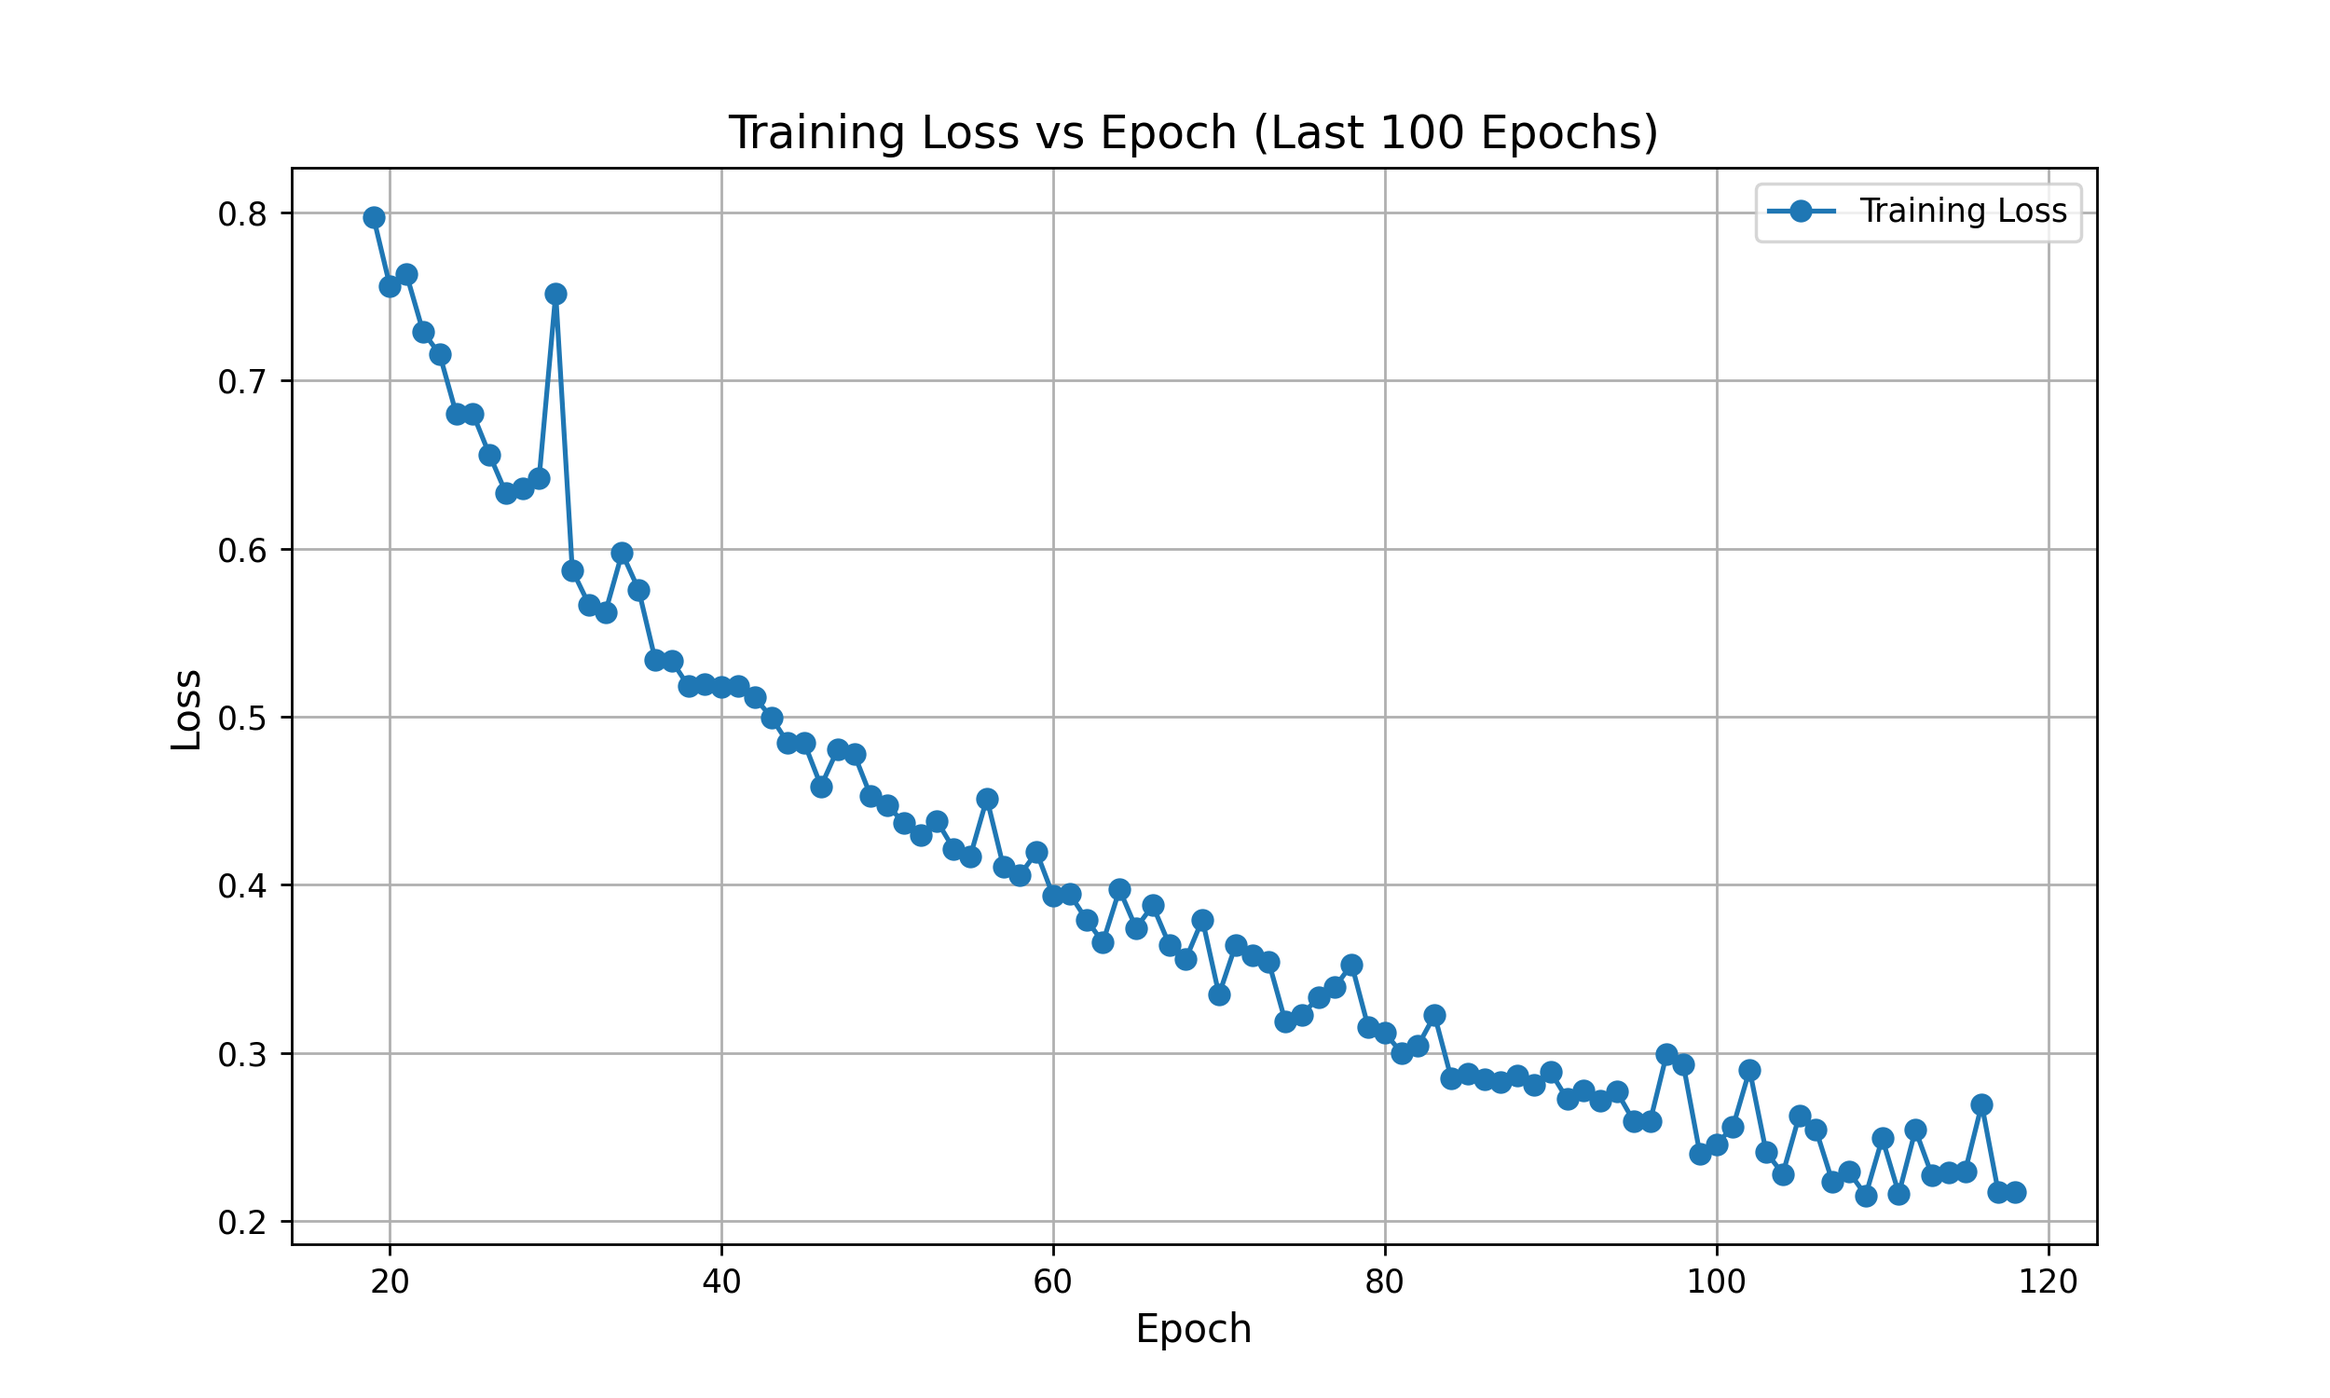
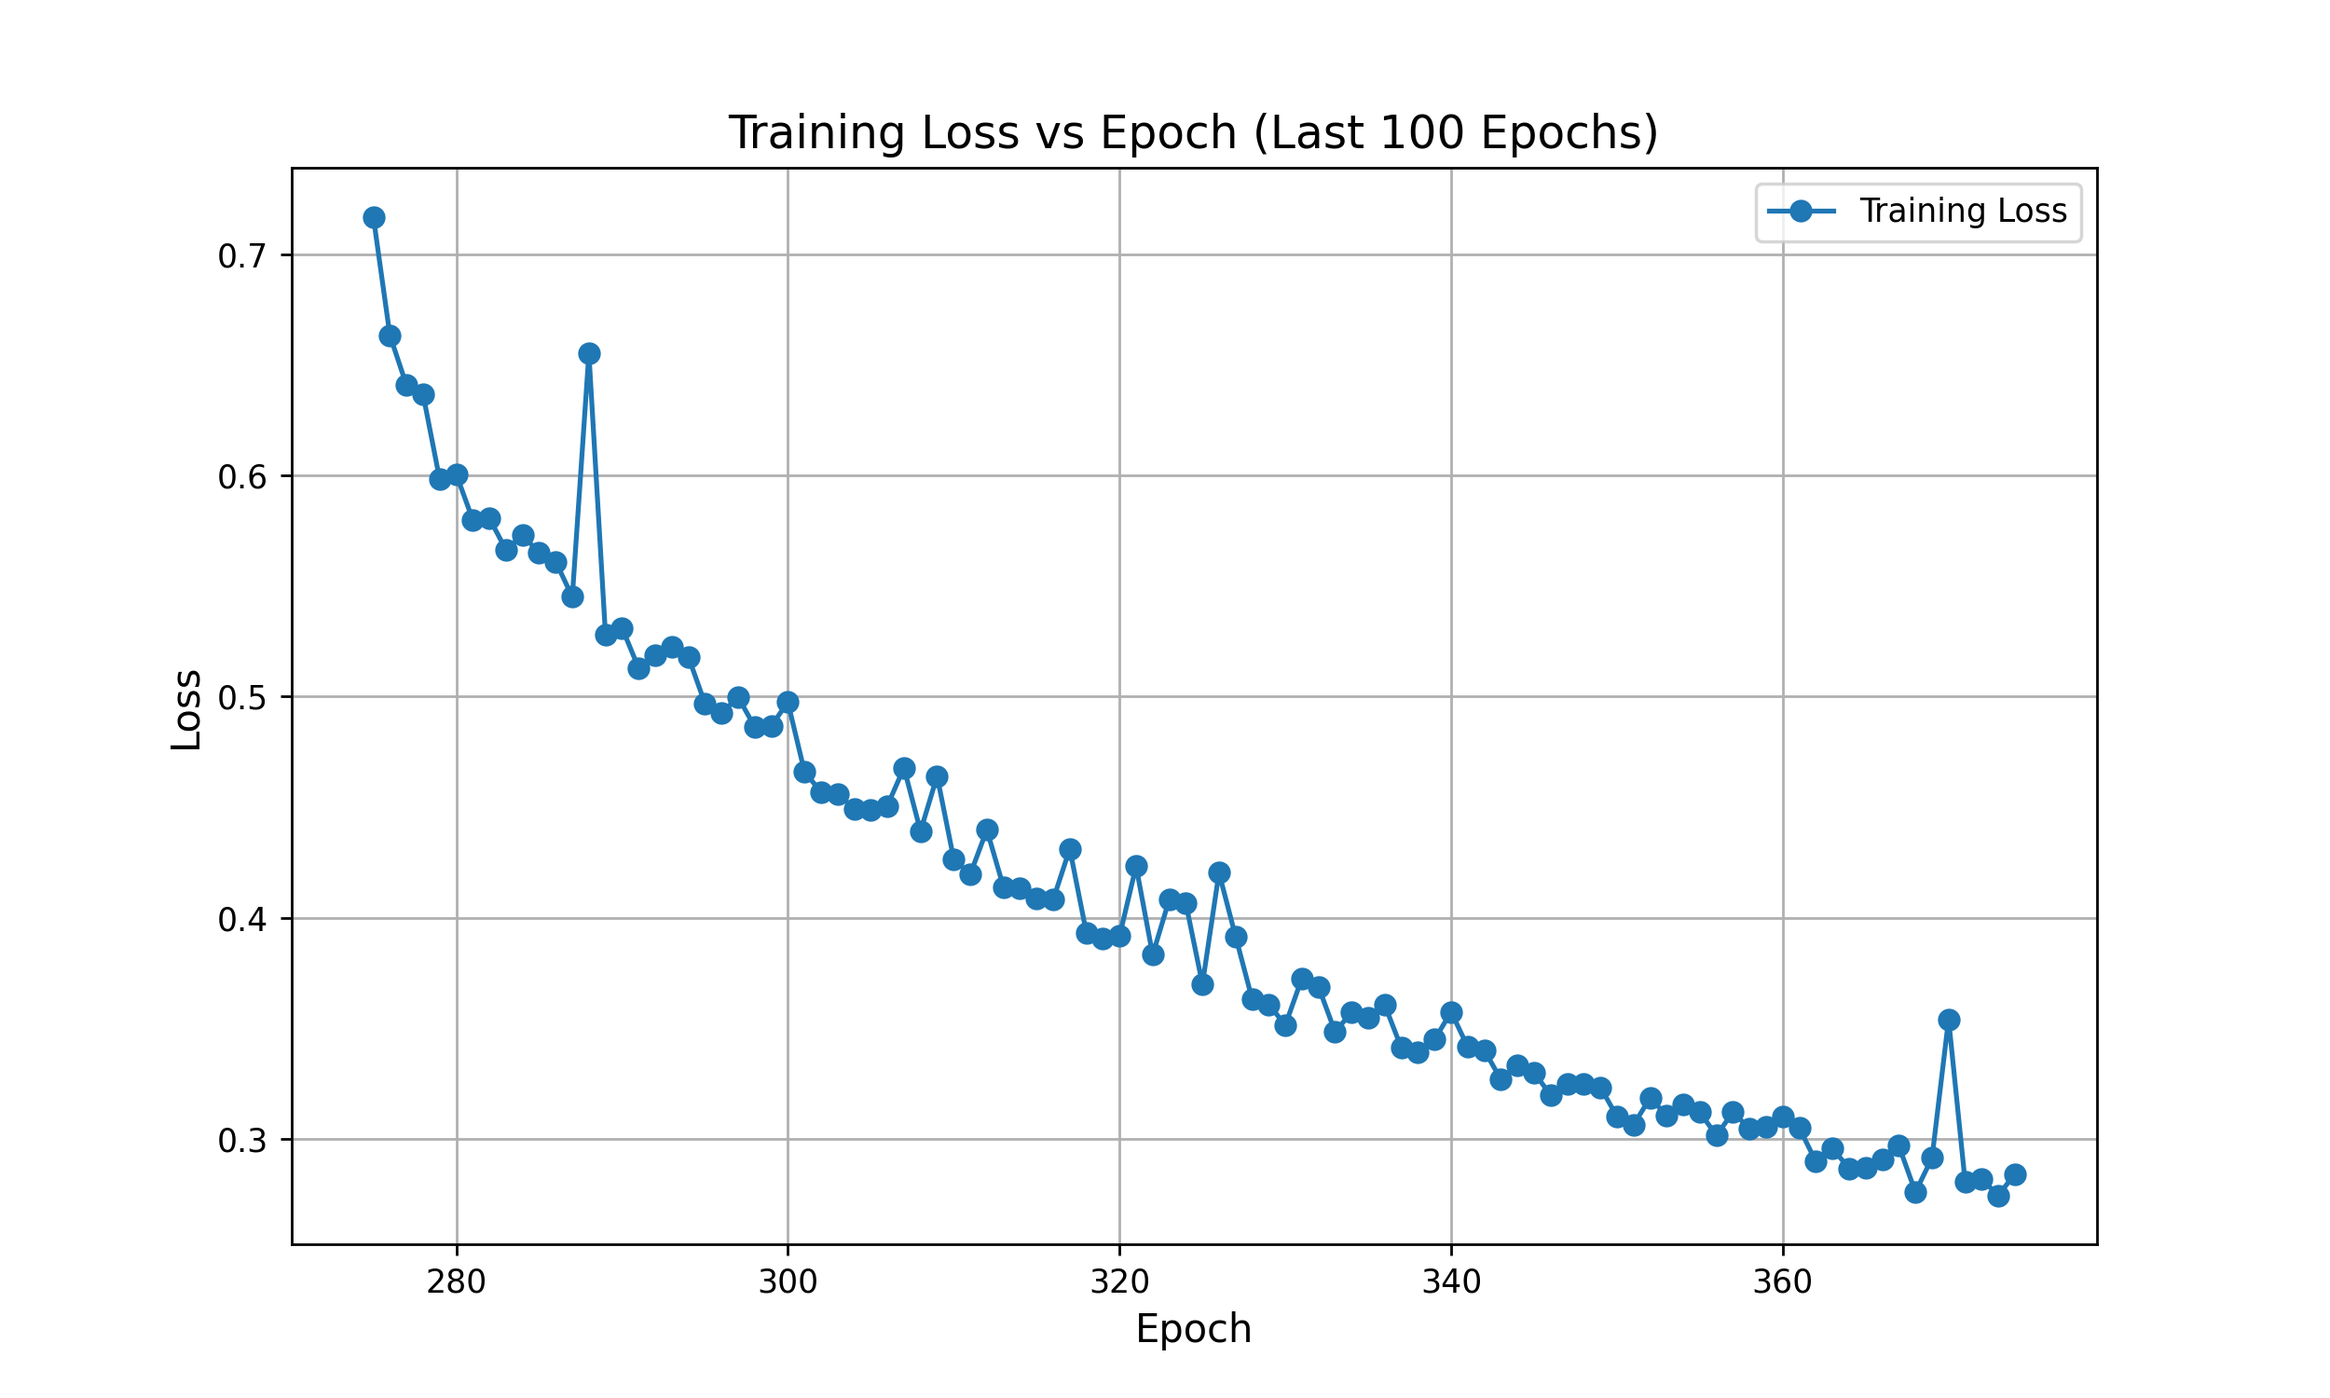
tried making neural network with sigmoid activation function

diff --git a/Machine Learning/neural_network_sigmoid.py b/Machine Learning/neural_network_sigmoid.py
@@ -1,0 +1,392 @@
+import torch
+import torch.nn as nn
+import torch.nn.functional as F
+import torch.optim as optim
+from torchvision import datasets, transforms
+import matplotlib.pyplot as plt
+import numpy as np
+import pandas as pd
+from torch.utils.data import DataLoader, Dataset
+from sklearn.model_selection import train_test_split
+from sklearn.preprocessing import StandardScaler
+import time
+import os
+
+# Flag to decide whether to save the metrics to CSV or not
+save_metrics = True  # Change this to False if you don’t want to save for this run
+
+# Path to the CSV file
+csv_file_path = "Machine Learning/training_metrics.csv"
+data_file_path="Data/full_data_set_sem1.csv"
+
+def theta_to_r(theta, distance):
+    
+    r=distance*np.tan(theta)
+    return r
+
+class EmittanceDataset(Dataset):
+    # Constructor method to initialize the dataset with features and targets
+    def __init__(self, features, targets):
+        # The features (input data) will be stored in self.features
+        # The targets (output labels) will be stored in self.targets
+        self.features = features
+        self.targets = targets
+
+    # This method defines the length of the dataset, i.e., how many samples are there
+    def __len__(self):
+        # Return the number of samples in the dataset (based on the features array)
+        return len(self.features)
+
+    # This method retrieves a sample from the dataset based on the index (idx)
+    def __getitem__(self, idx):
+        # Return the feature (input data) and the corresponding target (label)
+        # at the given index `idx`
+        return self.features[idx], self.targets[idx]
+
+# Load into a DataFrame
+df = pd.read_csv(data_file_path)
+df['R'] = df['Mean Theta'].apply(lambda theta: theta_to_r(theta, 11))
+# Separate features and target
+X = df[["UV/X-ray", "R", "Critical Energy"]].values # Features
+y = df["Emittance"].values # Target
+
+# Convert to PyTorch tensors
+X = torch.tensor(X, dtype=torch.float32)
+y = torch.tensor(y, dtype=torch.float32).view(-1, 1)  # Reshape to match model output
+
+
+
+# Create dataset and dataloader
+dataset = EmittanceDataset(X, y)
+dataloader = DataLoader(dataset, batch_size=2, shuffle=True)  # Batch size = 2
+
+# Split data into training and test sets (80% train, 20% test)
+X_train, X_test, y_train, y_test = train_test_split(X, y, test_size=0.5, random_state=42)
+
+# Initialize a scaler
+scaler = StandardScaler()
+# Fit the scaler on the training data and transform it
+X_train_scaled = scaler.fit_transform(X_train)
+# Use the same scaler (don't refit) to scale the test data
+X_test_scaled = scaler.transform(X_test)
+
+# Convert the scaled data into tensors
+X_train_tensor = torch.tensor(X_train_scaled, dtype=torch.float32)
+X_test_tensor = torch.tensor(X_test_scaled, dtype=torch.float32)
+
+#check if there is any overlap between training and test sets
+# Convert tensors to numpy for easy comparison
+train_features_np = X_train_tensor.numpy()
+test_features_np = X_test_tensor.numpy()
+
+# Check if there is any overlap between training and test sets
+overlap = np.isin(test_features_np, train_features_np).all(axis=1).sum()
+print(f"Number of overlapping samples: {overlap}")
+
+batch_no=2
+
+# Create training dataset and dataloader
+train_dataset = EmittanceDataset(X_train_tensor, y_train)
+train_dataloader = DataLoader(train_dataset, batch_size=batch_no, shuffle=True)
+
+# Create test dataset and dataloader
+test_dataset = EmittanceDataset(X_test_tensor, y_test)
+test_dataloader = DataLoader(test_dataset, batch_size=batch_no, shuffle=False)
+
+for batch_features, batch_targets in train_dataloader:
+    print("Features:", batch_features)
+    print("Targets:", batch_targets)
+    break  # Check one batch
+
+# Check if a GPU (CUDA) is available, otherwise default to CPU
+device = torch.device("cuda" if torch.cuda.is_available() else "cpu")
+
+# Print the device being used
+print(f"Using {device} device")
+activation_function="Sigmoid"
+no_hidden_layers=3
+class NeuralNetwork(nn.Module):  # Define custom neural network
+    def __init__(self):
+        super().__init__()
+        self.linear_sigmoid_stack = nn.Sequential(
+            nn.Linear(3, 10),
+            nn.Sigmoid(),  # Using Sigmoid activation
+            nn.Linear(10, 10),
+            nn.Sigmoid(),
+            nn.Linear(10, 10),
+            nn.Sigmoid(),
+            nn.Linear(10, 1),
+        )
+
+    def forward(self, x):  # Define the forward pass
+        logits = self.linear_sigmoid_stack(x)
+        return logits
+
+model = NeuralNetwork().to(device)
+
+print(model)   
+learning_rate=0.001
+# Step 1: Define a loss function and optimizer
+loss_fn = nn.MSELoss()  # Mean Squared Error Loss for regression
+optimizer = optim.Adam(model.parameters(), lr=learning_rate)  # Adam optimizer with learning rate = 0.001
+
+# Step 2: Training Loop
+epoch_times = [] 
+epochs = 375  # Number of epochs to train
+patience = 10  # number of epochs with no improvement before stopping
+epochs_since_improvement = 0  # Initialize counter for early stopping
+# Initialize best_loss with a very large number
+best_loss = float('inf')  # Start with infinity, so any loss will be smaller
+
+epoch_array=np.empty(0)
+loss_array=np.empty(0)
+
+total_start_time = time.time()
+for epoch in range(epochs):
+    start_time = time.time()
+    model.train()  # Set the model to training mode
+    running_loss = 0.0
+    
+    
+    # Loop over batches of data
+    for batch_features, batch_targets in train_dataloader:
+        # Move data to the device (GPU or CPU)
+        batch_features, batch_targets = batch_features.to(device), batch_targets.to(device)
+        
+        # Zero the gradients from the previous step
+        optimizer.zero_grad() #check!!!!!!!!!!!!!!!!!!!!!!!!!!!!!!!!!!!
+        
+        # Step 3: Forward pass (make predictions)
+        predictions = model(batch_features)
+        
+        # Step 4: Calculate the loss
+        loss = loss_fn(predictions, batch_targets)
+        
+        # Step 5: Backpropagation (compute gradients)
+        loss.backward() #check!!!!!!!!!!!!!!!!!!!!!!!!!!!!!!!!!!!!!!
+        
+        # Step 6: Update the weights using the optimizer
+        optimizer.step()
+        
+        # Update running loss
+        running_loss += loss.item()
+
+        end_time = time.time()
+        epoch_duration = end_time - start_time
+        epoch_times.append(epoch_duration)
+
+            # Check if the loss has improved
+    if running_loss < best_loss:
+        best_loss = running_loss
+        epochs_since_improvement = 0
+    else:
+        epochs_since_improvement += 1
+
+    if epochs_since_improvement >= patience:
+        print("Early stopping triggered!")
+        break
+    
+    # Print loss for every epoch
+    print(f"Epoch [{epoch+1}/{epochs}], Loss: {running_loss/len(dataloader)}")
+    epoch_array=np.append(epoch_array,epoch)
+    loss_array=np.append(loss_array,running_loss/len(dataloader))
+
+# End overall training timer
+total_end_time = time.time()
+total_training_time = total_end_time - total_start_time
+# Print average and total training time
+avg_epoch_time = np.mean(epoch_times)
+print(f"Average time per epoch: {avg_epoch_time:.2f} sec")
+print(f"Total training time: {total_training_time:.2f} sec")
+
+# After training is done, plot the results
+plt.figure(figsize=(10, 6))
+plt.plot(epoch_array, loss_array, label='Training Loss', color='tab:blue', marker='o')
+plt.xlabel('Epoch', fontsize=12)
+plt.ylabel('Loss', fontsize=12)
+plt.title('Training Loss vs Epoch', fontsize=14)
+plt.grid(True)
+plt.legend()
+#plt.savefig(f'Machine Learning/Plots/Epochs_vs_loss_{epochs}_epochs.png', dpi=250)
+
+#focus on the last epochs
+no_epochs_focus=100
+
+if len(epoch_array) > no_epochs_focus:
+    epoch_array_last = epoch_array[-no_epochs_focus:]  # Slice the last no_epochs_focus epochs
+    loss_array_last = loss_array[-no_epochs_focus:]    # Slice the corresponding last no_epochs_focus loss values
+else:
+    # If there are fewer than 20 epochs, use all epochs
+    epoch_array_last = epoch_array
+    loss_array_last= loss_array
+
+# Plot the last 2no_epochs_focus epochs
+plt.figure(figsize=(10, 6))
+plt.plot(epoch_array_last, loss_array_last, label='Training Loss', color='tab:blue', marker='o')
+plt.xlabel('Epoch', fontsize=12)
+plt.ylabel('Loss', fontsize=12)
+plt.title(f'Training Loss vs Epoch (Last {no_epochs_focus} Epochs)', fontsize=14)
+plt.grid(True)
+plt.legend()
+plt.savefig(f'Machine Learning/Plots/Last_{no_epochs_focus}_Epochs_vs_loss_{epochs}_epochs.png', dpi=250)
+#plt.show()
+
+
+
+#TEST!!!!!!!!!!!!!!!!!!!!!!!!!!!!!!!!!!!!!!
+# Step 3: Evaluate the model
+# Evaluate the model on a test dataset to check its performance
+
+# First, set the model to evaluation mode (turns off dropout, batchnorm, etc.)--- this step very important
+model.eval()
+
+# Initialize variables to keep track of the total loss and number of samples
+total_loss = 0.0
+num_samples = 0
+loss_array=np.empty(0)
+
+# No need to calculate gradients during evaluation, so we use torch.no_grad()
+with torch.no_grad():
+    for batch_features, batch_targets in test_dataloader:
+        # Move the data to the appropriate device (CPU or GPU)
+        batch_features, batch_targets = batch_features.to(device), batch_targets.to(device)
+        
+        # Make predictions
+        predictions = model(batch_features)
+        
+        # Calculate the loss (using the same loss function as in training)
+        loss = loss_fn(predictions, batch_targets)
+        print(f"Test Loss: {loss.item():.4f}")
+        loss_array=np.append(loss_array,loss.item())
+        
+        # Accumulate the loss and number of samples
+        total_loss += loss.item() * batch_features.size(0)  # Multiply by batch size
+        num_samples += batch_features.size(0)
+
+        
+# Calculate average loss
+average_loss = total_loss / num_samples
+loss_error=np.std(loss_array)
+print(f"Test Set Loss: {average_loss:.4f}")
+mse=average_loss
+
+#Save necessary metrics
+metrics = {
+    'avg_epoch_time': avg_epoch_time,
+    'total_training_time': total_training_time,
+    'total_num_epochs': epochs,  # Since `epoch` is 0-indexed, add 1 to get the actual number of epochs
+    'num_epochs_early_stopping': epoch+1,  # The epoch when early stopping was triggered
+    'patience': patience,
+    'loss_function': loss_fn,
+    'loss': average_loss,
+    'loss_error': loss_error,
+    'optimiser': type(optimizer).__name__,
+    'learning_rate': learning_rate,
+    'activation_function': activation_function,
+    'no_hidden_layers': no_hidden_layers ,
+    'batch_size': batch_no
+}
+
+# Check if the CSV file exists (to decide whether to create or append)
+if save_metrics and not os.path.exists(csv_file_path):
+    # If the file doesn't exist, we need to create a new one with column headers
+    columns = ['avg_epoch_time', 'total_training_time', 'total_num_epochs','num_epochs_early_stopping', 'patience', 'loss_function', 'loss', 'loss_error','optimiser', 'learning_rate', 'activation_function', 'no_hidden_layers','batch_no']
+    # Initialize the CSV file with column names
+    training_metrics = []
+else:
+    # If the file exists, we will just append new data
+    training_metrics = pd.read_csv(csv_file_path)
+
+# Convert the metrics dictionary into a DataFrame
+metrics_df = pd.DataFrame([metrics])
+
+# Save the DataFrame to CSV (create if it doesn't exist, append if it does)
+if save_metrics:
+    if os.path.exists(csv_file_path):
+        # Append new metrics to the existing CSV file
+        metrics_df.to_csv(csv_file_path, mode='a', header=False, index=False)
+    else:
+        # If CSV doesn't exist, write the DataFrame to a new CSV file with headers
+        metrics_df.to_csv(csv_file_path, mode='w', header=True, index=False)
+
+# Print the saved metrics DataFrame
+print(metrics_df)
+
+
+# Set model to evaluation mode (disables dropout and batch normalization layers)
+model.eval()
+
+# Initialize a list to store predictions (you could also use a tensor if preferred)
+all_predictions = []
+
+# Disable gradient calculation for predictions (this saves memory and computation)
+with torch.no_grad():
+    # Iterate over the test data
+    for batch_features, batch_targets in test_dataloader:
+        # Move the features and targets to the same device as the model
+        batch_features = batch_features.to(device)
+        batch_targets = batch_targets.to(device)
+
+        # Get predictions from the model
+        predictions = model(batch_features)
+
+        # Store predictions
+        all_predictions.append(predictions.cpu().numpy())  # Move to CPU and convert to numpy if needed
+
+# Convert all predictions into a single array
+test_predictions = np.concatenate(all_predictions, axis=0)
+
+# Print or store your predictions (e.g., for comparison with actual targets)
+#print("Predictions on the Test Data:", all_predictions)
+
+# If you want to compare with the true values (targets) on the test set
+test_targets = np.concatenate([batch_targets.cpu().numpy() for _, batch_targets in test_dataloader], axis=0)
+#print("True Values (Emittance):", test_targets)
+
+
+
+#mse=average_loss
+#all_predictions = all_predictions.numpy()
+#y_test = y_test.numpy()
+
+x=np.linspace(min(min(test_predictions), min(test_targets)),max(max(test_predictions), max(test_targets)),100)
+x = x.flatten() # Convert to 1D array
+#print("x:",x)
+y_upper = x + np.sqrt(mse)
+y_lower = x - np.sqrt(mse)
+
+x_error=np.linspace(mse,mse,len(test_predictions))
+
+# Calculate residuals
+residuals =test_predictions-test_targets
+
+# Create figure and GridSpec
+fig = plt.figure(figsize=(12, 10))
+gs = fig.add_gridspec(2, 1, height_ratios=[3, 1], hspace=0.4)
+
+# Main scatter plot
+ax1 = fig.add_subplot(gs[0, 0])
+ax1.scatter(test_targets, test_predictions, label="Emittance data", color='tab:blue')
+ax1.plot(x, x, color='k', label=r"$y=\^y$")
+ax1.fill_between(x, y_lower, y_upper, color="red", alpha=0.2, label=r"$\sqrt{\text{MSE}}$")
+ax1.set_ylabel(r"Neural network model prediction for emittance ($\mu m$)", fontsize=14)
+ax1.set_xlabel(r"QV3D data values for emittance ($\mu m$)", fontsize=14)
+ax1.set_title(r"Emittance predicted by model vs QV3D simulation", fontsize=16)
+ax1.grid(color='gray', linestyle='--', linewidth=0.5, alpha=0.5)
+ax1.legend(fontsize=12)
+ax1.tick_params(axis='both', labelsize=12)
+
+# Residuals plot (in units of sigma)
+ax2 = fig.add_subplot(gs[1, 0])
+ax2.errorbar(test_targets, residuals, color='tab:blue', alpha=0.7, fmt='o',label="Residuals")
+
+ax2.axhline(0, color='k', linestyle='--', linewidth=1)
+ax2.axhline(-1,color='r',linestyle='--',linewidth=1)
+ax2.axhline(1,color='r',linestyle='--',linewidth=1)
+ax2.set_ylabel(r"Residuals ($\sigma$)", fontsize=14)
+ax2.set_xlabel(r"QV3D data values for emittance ($\mu m$)", fontsize=14)
+ax2.set_ylim(-np.max(np.abs(1.1*residuals/np.sqrt(mse))), np.max((np.abs(1.1*residuals/np.sqrt(mse)))))
+
+plt.savefig(r'Machine Learning\Plots\NN_plot',dpi=250)
+#plt.show()
+
